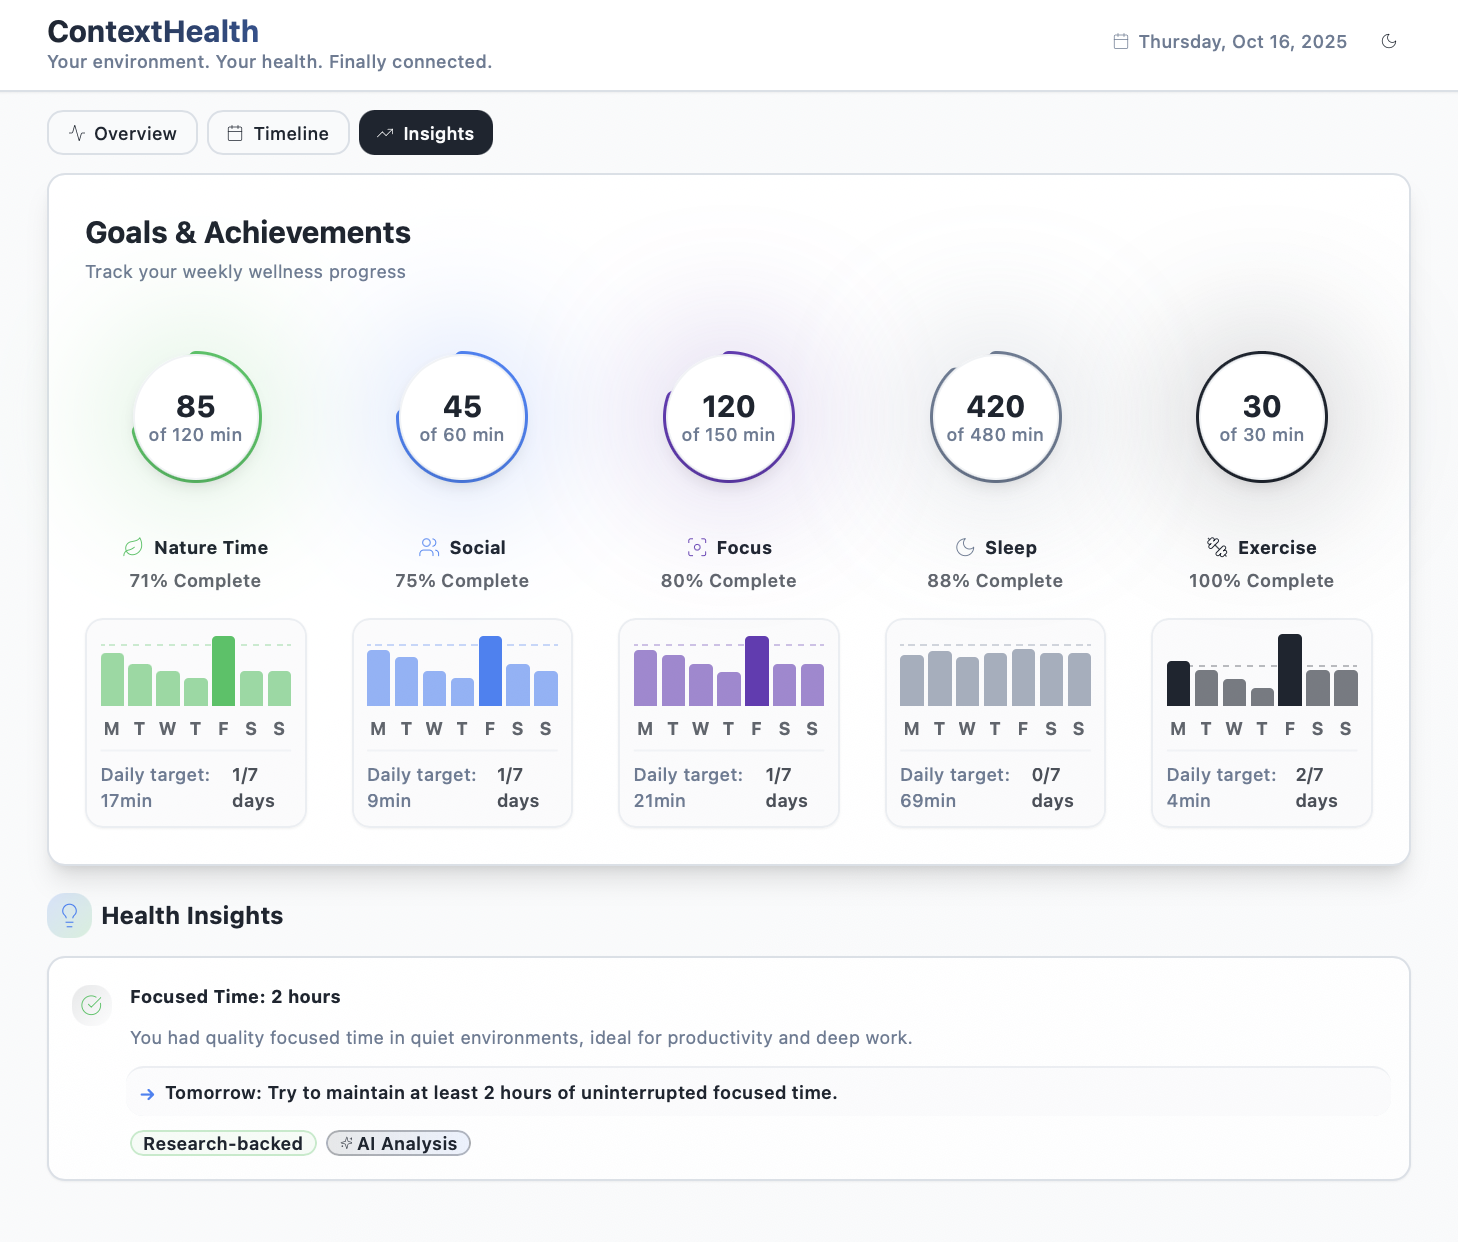
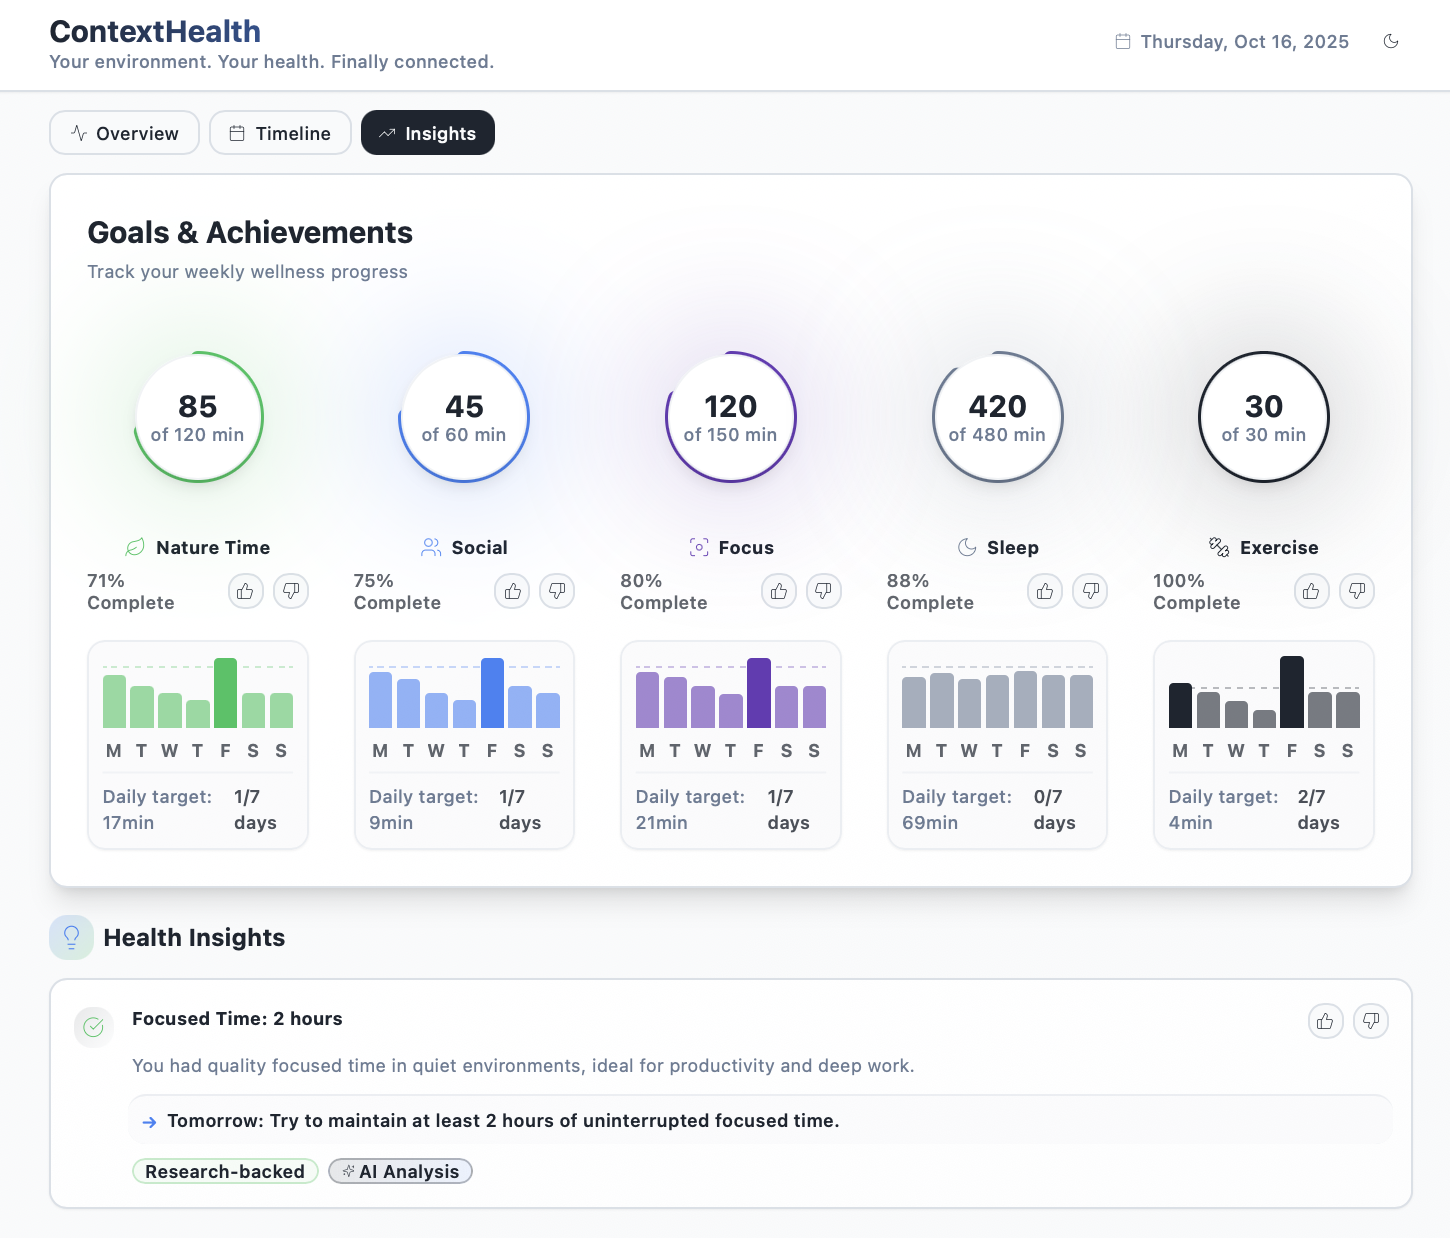
Update screenshots and README

diff --git a/README.md b/README.md
@@ -2,318 +2,137 @@
 
 > Your environment. Your health. Finally connected.
 
-An AI-powered environmental health tracking application that translates your daily environmental context into actionable health insights.
+AI-powered environmental health tracking that translates daily context into actionable insights.
 
-## 🎯 Built for AI NATION Grant Validation
+## 🎯 AI NATION Grant PoC
 
-This PoC demonstrates:
-- ✅ **Clear problem**: Healthcare's environmental blind spot - existing wearables miss crucial context
-- ✅ **AI-first solution**: ML-powered context classification (83% accuracy in prototype)
-- ✅ **Market validation**: Health-conscious users seek environmental insights (Oura/WHOOP gap)
+**Demonstrates:**
+- ✅ **Clear problem**: Healthcare's environmental blind spot - wearables miss context
+- ✅ **AI solution**: ML context classification (83% accuracy prototype)
+- ✅ **Market fit**: Health users seek environmental insights (Oura/WHOOP gap)
 - ✅ **Team capability**: Functional prototype with research-backed algorithms
-- ✅ **SDG alignment**: SDG 3 (Good Health), SDG 11 (Sustainable Cities)
+- ✅ **SDG alignment**: SDG 3 (Health), SDG 11 (Sustainable Cities)
 
-**Ready for 3-month MVP**: Real sensor integration → Model training → Beta pilot with 15-20 users
+**MVP roadmap**: Real sensors → Model training → Beta pilot (15-20 users)
 
-![ContextHealth Overview Dashboard](./public/screenshots/overview.png)
-*Dashboard showing Environmental Health Score (68/100), environmental breakdown, AI-powered insights, and personalized recommendations*
-
-## 🌟 Overview
-
-ContextHealth is a proof-of-concept application that demonstrates how passive environmental sensing (GPS location, acoustic patterns, movement) can be transformed into meaningful health intelligence. The app tracks nature exposure, social interactions, noise levels, and indoor/outdoor time to provide research-backed recommendations for improved wellbeing.
+![ContextHealth Overview](./public/screenshots/overview.png)
 
 ## ✨ Features
 
-- **Environmental Health Score**: Real-time scoring (0-100) based on your environmental exposure patterns
-- **Interactive Timeline**: Visualize your day with color-coded environmental contexts
-- **AI-Powered Insights**: Research-backed health recommendations based on your environmental data
-- **Context Classification**:
-  - 🌳 Nature exposure tracking
-  - 👥 Social interaction detection
-  - 🎯 Focused work environment monitoring
-  - 📢 Noise level tracking
-  - 🏠 Indoor/outdoor time analysis
-- **Smart Recommendations**: Personalized, actionable suggestions for optimal health
+- **Environmental Health Score**: Real-time 0-100 scoring based on exposure patterns
+- **Interactive Timeline**: Color-coded daily environmental journey visualization
+- **AI Insights**: Research-backed recommendations from environmental data
+- **Context Classification**: Nature 🌳, Social 👥, Focus 🎯, Noise 📢, Indoor/Outdoor 🏠
+- **Smart Recommendations**: Personalized, actionable health suggestions
+- **Weekly Goals**: Track progress across wellness metrics with feedback
 
 ## 📸 Screenshots
 
-### 1. Dashboard Overview
-![Dashboard Overview](./public/screenshots/overview.png)
+### Dashboard Overview
+![Dashboard](./public/screenshots/overview.png)
+Environmental Health Score, breakdown charts, AI insights, and tomorrow's recommendations.
 
-The main dashboard displays:
-- **Environmental Health Score**: Large circular progress ring (68/100)
-- **Environmental Breakdown**: Color-coded progress bars showing:
-  - Nature: 15% (green)
-  - Social: 30% (blue)
-  - Focus: 20% (purple)
-  - Noise: 5% (orange)
-  - Indoor/Alone: 30% (gray)
-- **Health Insights Panel**: Research-backed recommendations with positive reinforcement
-- **Tomorrow's Recommendation**: Context-aware suggestions with nearby locations and optimal timing
+### Timeline View  
+![Timeline](./public/screenshots/timeline.png)
+Daily journey with time blocks, noise levels, context tags, and integrated insights.
 
-### 2. Timeline View
-![Timeline View](./public/screenshots/timeline.png)
-
-Interactive timeline showing your daily environmental journey:
-- **Color-coded segments** for each context type
-- **Time blocks** with duration and location
-- **Noise levels** displayed for each segment (35dB - 75dB)
-- **Context tags** (Quiet, Indoor, Urban, Nature, Social, etc.)
-- **Health insights** integrated into each segment
-- **Chronological view** from morning to evening
-
-### 3. Health Insights
-![Health Insights](./public/screenshots/insights.png)
-
-Detailed AI-powered health insights:
-- **Nature Exposure**: Tracking against recommended 60+ minutes daily
-- **High Noise Alert**: Warnings about prolonged exposure with mitigation strategies
-- **Social Interactions**: Mental health impact analysis
-- **Focused Time**: Productivity and deep work recommendations
-- **Research citations** for credibility
-- **Actionable recommendations** for each insight
+### Goals & Insights
+![Goals](./public/screenshots/insights.png)
+Weekly wellness tracking with AI-powered analysis and research citations.
 
 ## 🛠 Tech Stack
 
-- **Frontend**: React 18 + TypeScript
-- **Build Tool**: Vite
-- **Styling**: Tailwind CSS
-- **UI Components**: shadcn/ui
-- **Routing**: React Router v6
-- **Notifications**: Sonner + Radix UI Toast
-- **Data Visualization**: Custom animated components
+- React 18 + TypeScript + Vite
+- Tailwind CSS + shadcn/ui
+- React Router v6 + Recharts
+- Sonner notifications
 
 ## 🔬 Technical Architecture
 
 ### Data Pipeline
 ```
-┌─────────────────┐     ┌──────────────────┐     ┌────────────────────┐
-│  Raw Sensors    │ ──> │  AI Processing   │ ──> │ Health Intelligence│
-├─────────────────┤     ├──────────────────┤     ├────────────────────┤
-│ 📍 GPS          │     │ Location         │     │ Nature: 90min      │
-│   (every 5min)  │     │ Classifier       │     │ (15% of day)       │
-│                 │     │                  │     │                    │
-│ 🎤 Audio        │     │ Acoustic ML      │     │ Social: 3 times    │
-│   (15s samples) │     │ Model (MFCC-13)  │     │ (30% of day)       │
-│                 │     │                  │     │                    │
-│ 📊 Temporal     │     │ Pattern          │     │ Environmental      │
-│   Patterns      │     │ Analysis         │     │ Score: 68/100      │
-└─────────────────┘     └──────────────────┘     └────────────────────┘
+Raw Sensors          AI Processing       Health Intelligence
+━━━━━━━━━━━━━━━━    ━━━━━━━━━━━━━━━    ━━━━━━━━━━━━━━━━━━━
+📍 GPS (5min)    →   Location         →  Nature: 90min (15%)
+🎤 Audio (15s)   →   Acoustic ML      →  Social: 3x (30%)
+📊 Patterns      →   Analysis         →  Score: 68/100
 ```
 
 ### Privacy-First Design
-- **On-device preprocessing**: Audio → MFCC features (no raw audio stored/transmitted)
-- **Local-first storage**: Sensitive data encrypted on device
-- **Cloud ML inference**: Only anonymized features sent to classification model
-- **User control**: One-tap data export or deletion
+- **On-device**: Audio → MFCC features (no raw audio stored)
+- **Local-first**: Encrypted device storage
+- **Cloud ML**: Only anonymized features transmitted
+- **User control**: One-tap export/deletion
 
-### Battery Impact Mitigation
-- **Duty-cycled sampling**: 15-second audio samples every 5 minutes
-- **Intelligent GPS**: Variable frequency based on movement detection
-- **Estimated impact**: <5% daily battery drain (target validated in beta)
+### Battery Impact
+- Duty-cycled sampling (15s every 5min)
+- Intelligent GPS (movement-based frequency)
+- Target: <5% daily battery drain
 
 ## 🚀 Getting Started
 
-### Prerequisites
-
-- Node.js 16+ and npm installed ([install with nvm](https://github.com/nvm-sh/nvm#installing-and-updating))
-
-### Installation
-
-1. Clone the repository:
 ```bash
 git clone <YOUR_GIT_URL>
 cd <YOUR_PROJECT_NAME>
-```
-
-2. Install dependencies:
-```bash
 npm install
-```
-
-3. Start the development server:
-```bash
 npm run dev
 ```
 
-4. Open your browser and navigate to `http://localhost:8080`
+Navigate to `http://localhost:8080`
 
-## 📱 Application Structure
+## 📊 PoC Status
 
-```
-src/
-├── components/          # Reusable UI components
-│   ├── ui/             # shadcn/ui base components
-│   ├── ScoreRing.tsx   # Animated score visualization
-│   ├── TimelineView.tsx # Daily context journey
-│   ├── InsightsPanel.tsx # AI insights display
-│   ├── StatsBreakdown.tsx # Environmental charts
-│   └── RecommendationCard.tsx # Smart suggestions
-├── data/
-│   └── mockData.ts     # PoC simulation data
-├── pages/
-│   ├── Index.tsx       # Main dashboard
-│   └── NotFound.tsx    # 404 page
-├── types/
-│   └── environmental.ts # TypeScript definitions
-└── lib/
-    └── utils.ts        # Helper functions
-```
+**Simulated scenario**: 10-hour day, 7 context switches, Stuttgart locations, 35-75dB noise range.
 
-## 🎨 Design System
+## 🚦 MVP Development Path (12 weeks)
 
-Health-focused design inspired by Oura and WHOOP:
-
-**Color Palette:**
-- Nature: `hsl(142 71% 45%)` - #359a61
-- Social: `hsl(217 91% 60%)` - #4d9fff
-- Focus: `hsl(262 52% 47%)` - #7e3af2
-- Noise: `hsl(25 95% 53%)` - #ff7849
-- Indoor: `hsl(215 16% 47%)` - #646d7b
-
-**Design Principles:**
-- Minimalist, data-focused interface
-- Smooth animations for engagement
-- High contrast for readability
-- Responsive across all devices
-
-## 📊 Current Status: Proof of Concept
-
-**Demonstrates:**
-- Environmental context classification
-- Health insight generation
-- Recommendation engine
-- Modern data visualization
-
-**Simulated Day Scenario:**
-- 7 context switches (home → commute → office → park → café → park → home)
-- 10 hours tracked (8:00 AM - 7:00 PM)
-- Locations: Stuttgart area (Stadtgarten Park, Rosenstein Park)
-- Noise levels: 35-75 dB
-- Research-backed correlations
-
-## 🚦 PoC → MVP Development Path
-
-**Current Status (Week 0)**: ✅ UI/UX validated, stakeholder demonstration ready
-
-### Phase 1: Real Sensor Integration (Week 1-4)
-- [ ] **Week 1-2**: iOS AVAudioSession implementation for acoustic sampling
-- [ ] **Week 2-3**: Core Location framework integration (GPS tracking)
-- [ ] **Week 3-4**: Background processing optimization (<5% battery impact target)
-- [ ] **Milestone**: Real-time data collection from 3 test devices
-
-### Phase 2: ML Model Training (Week 5-8)
-- [ ] **Week 5-6**: Data collection campaign (30+ samples per context class)
-- [ ] **Week 6-7**: MFCC feature extraction + GPS clustering algorithms
-- [ ] **Week 7-8**: Model training and validation (target: 75%+ accuracy)
-- [ ] **Milestone**: Trained classifier achieving grant accuracy requirements
-
-### Phase 3: Beta Deployment (Week 9-12)
-- [ ] **Week 9-10**: TestFlight deployment infrastructure
-- [ ] **Week 10-11**: Beta user onboarding (15-20 health-conscious early adopters)
-- [ ] **Week 11-12**: Telemetry collection (battery, accuracy, engagement)
-- [ ] **Milestone**: Validated MVP with real user data demonstrating viability
-
-## 🔮 Post-MVP Roadmap
-
-### Phase 1: Healthcare Integration (6 months)
-- [ ] HIPAA-compliant data storage
-- [ ] Healthcare provider portal
-- [ ] Data export for consultations
-- [ ] Correlation analysis tools
-- [ ] API for EHR integration
-
-### Phase 2: Scale (12 months)
-- [ ] iOS & Android native apps
-- [ ] Wearable integration (Apple Watch, Fitbit)
-- [ ] Community benchmarking (anonymized)
-- [ ] Public API
-- [ ] Multi-language support
+**Phase 1 (Weeks 1-4)**: iOS sensor integration, background processing
+**Phase 2 (Weeks 5-8)**: ML model training, 75%+ accuracy target  
+**Phase 3 (Weeks 9-12)**: TestFlight beta, 15-20 user pilot
 
 ## 🎯 Use Cases
 
-**Consumer (B2C):**
-- Wellness optimization
-- Mental health support through nature tracking
-- Urban noise pollution awareness
-- Work-life balance monitoring
-
-**Healthcare (B2B):**
-- Environmental context for diagnosis
-- Treatment efficacy via environmental factors
-- Research data collection
-- Preventive care insights
+**Consumer**: Wellness optimization, mental health, noise awareness, work-life balance  
+**Healthcare**: Environmental diagnosis context, treatment efficacy, research data
 
 ## 🔬 Research Foundation
 
-All insights reference peer-reviewed research:
-
-1. **Nature Exposure**: 60+ minutes daily reduces stress by 28% (environmental psychology studies)
-2. **Social Connection**: Regular interaction reduces depression risk by 50% (longitudinal health studies)
-3. **Noise Pollution**: Exposure >70dB increases stress hormones (occupational health research)
-
-## 🔒 Privacy & Security
-
-**Current PoC**: Uses simulated data only  
-**Future Implementation**:
-- End-to-end encryption
-- Local-first data storage
-- Opt-in data sharing
-- GDPR & HIPAA compliance
-- User-controlled data deletion
-
-## 🤝 Contributing
-
-Proof-of-concept for grant proposal demonstration. For collaboration inquiries, open an issue.
+All insights cite peer-reviewed research:
+- Nature 60+ min/day → 28% stress reduction
+- Social interaction → 50% depression risk reduction  
+- Noise >70dB → Increased stress hormones
 
 ## 🏆 Competitive Advantage
 
-See [COMPETITIVE_ANALYSIS.md](./README_COMPETITIVE_ANALYSIS.md) for detailed market positioning.
+We **complement** physiological wearables (Apple Watch, Oura, WHOOP) by measuring the missing environmental dimension.
 
-**Key Differentiator**: We don't compete with physiological wearables (Apple Watch, Oura, WHOOP) - we complete them by measuring the missing environmental dimension of health.
+| Feature | ContextHealth | Competitors |
+|---------|---------------|-------------|
+| Nature tracking | ✓ AI-powered | ✗ Manual tags |
+| Social detection | ✓ Passive | ✗ None |
+| Noise monitoring | ✓ Real-time | ✗ None |
+| Context recommendations | ✓ Research-backed | ✗ Generic goals |
 
-| ContextHealth Uniqueness | Competitors |
-|--------------------------|-------------|
-| Nature time tracking via AI | ✗ Manual workout tagging only |
-| Social interaction detection | ✗ No passive monitoring |
-| Noise pollution tracking | ✗ Not measured |
-| Context-aware recommendations | ✗ Generic goals ("close rings") |
-| Research-backed environmental correlations | ✗ Limited environmental data |
+See [COMPETITIVE_ANALYSIS.md](./README_COMPETITIVE_ANALYSIS.md) for details.
+
+## 🔒 Privacy & Security
+
+**Current**: Simulated data only  
+**Future**: E2E encryption, local-first storage, GDPR/HIPAA compliance
+
+## 🤝 Contributing
+
+PoC for grant proposal. For collaboration, open an issue.
 
 ## 📄 License
 
 MIT License - Created with Lovable
-
-## 📹 Video Demo Highlights
-
-For grant reviewers, the application demonstrates:
-
-1. **AI Classification in Action** (0:00-0:30)
-   - Loading state: "Analyzing environmental data... Processing 847 samples"
-   - Real-time context detection with confidence scores (87-95%)
-   - Visual ML pipeline: Audio patterns → GPS → Combined context
-
-2. **Health Intelligence Dashboard** (0:30-1:00)
-   - Environmental Health Score with animated count-up effect
-   - AI-powered breakdown of daily contexts
-   - Research-backed insights with citations
-
-3. **Timeline Journey** (1:00-1:30)
-   - Chronological context switches throughout the day
-   - AI confidence badges on each segment
-   - Noise level tracking and health correlations
-
-4. **Technical Credibility** (1:30-2:00)
-   - ML metadata display (model version, accuracy, processing time)
-   - Feature extraction visualization (MFCC-13, GPS coordinates)
-   - Privacy-first architecture explanation
 
 ## 🔗 Links
 
 - [Live Demo](https://lovable.dev/projects/5155ad08-15cd-4599-a268-43759bc0a9cf)
 - [Competitive Analysis](./README_COMPETITIVE_ANALYSIS.md)
 - [Lovable Platform](https://lovable.dev)
-- [Documentation](https://docs.lovable.dev/)
 
 ---
 
